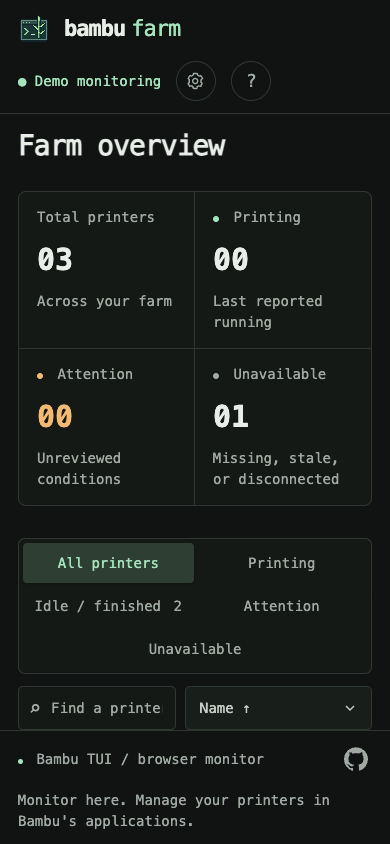
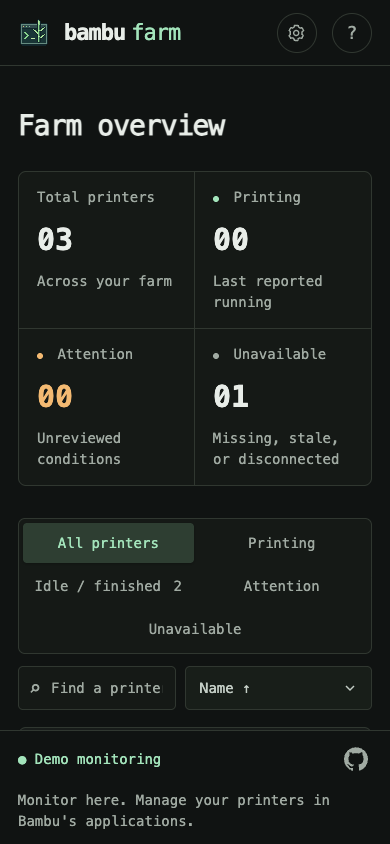
Move browser monitoring status to the footer

diff --git a/internal/webserver/assets/index.html b/internal/webserver/assets/index.html
@@ -15,9 +15,7 @@
         ><small>MONITORING</small></a
       >
       <div class="header-right">
-        <span class="live" id="feed-state" role="status">Connecting…</span
-        ><span class="readonly">▣ &nbsp; Monitor</span
-        ><button
+        <button
           id="settings"
           class="icon-button"
           aria-label="Dashboard settings"
@@ -118,9 +116,7 @@
       </main>
     </div>
     <footer>
-      <span
-        ><i class="tiny-dot"></i> Bambu TUI
-        <span class="muted">/ browser monitor</span></span
+      <span class="live" id="feed-state" role="status">Connecting…</span
       ><span
         >Monitor here. Manage your printers in Bambu's applications.</span
       ><a

diff --git a/internal/webserver/assets/style.css b/internal/webserver/assets/style.css
@@ -157,14 +157,6 @@ i {
   letter-spacing: 1.5px;
   color: var(--muted);
 }
-.tiny-dot {
-  display: inline-block;
-  background: var(--green);
-  width: 5px;
-  height: 5px;
-  border-radius: 50%;
-  margin-right: 5px;
-}
 main {
   min-width: 0;
   padding: 38px 38px 0;
@@ -798,9 +790,6 @@ dialog p {
     font-size: 1.375rem;
   }
   .brand small {
-    display: none;
-  }
-  .readonly {
     display: none;
   }
   .header-right {

diff --git a/docs/user/usage.md b/docs/user/usage.md
@@ -60,7 +60,7 @@ See [Config controls](alerts.md#change-notifications-in-the-tui) for all nine al
 
 ### Local web dashboard
 
-The browser status bar stays at the bottom of the window, separated by a border. Scroll the farm workspace above it to reach all printer cards and the result count; the branding, monitoring reminder, and GitHub repository link remain visible. The bar wraps to accommodate narrow windows and larger browser text. When a short window cannot fit the header, workspace, and wrapped bar together, the page also scrolls to keep the farm and footer accessible.
+The browser status bar stays at the bottom of the window, separated by a border. Scroll the farm workspace above it to reach all printer cards and the result count; the connection/demo status, monitoring reminder, and GitHub repository link remain visible. The bar wraps to accommodate narrow windows and larger browser text. When a short window cannot fit the header, workspace, and wrapped bar together, the page also scrolls to keep the farm and footer accessible.
 
 Press `,`, then use `Tab` / `Shift+Tab` to select **Web Server**. Select **Enable web server** and use `Enter`, Space, or `←` / `→` to toggle it. It is off by default. The default port is **8080**; a successful start shows `http://127.0.0.1:8080` (or your configured port). Open that exact URL on the same computer.
 
@@ -82,7 +82,7 @@ The dashboard shows the whole-farm summary, searchable/filterable printer cards,
 
 Use the single printer toolbar to choose **All printers**, **Printing**, **Idle / finished**, **Attention**, or **Unavailable**. Summary totals describe the whole farm and are not filter buttons. **Idle / finished** includes only currently available online printers explicitly reporting `IDLE` or `FINISH`, with a count before search is applied. Search narrows the selected filter; sorting applies within it. Missing/stale telemetry, offline/cloud-disconnected devices, and unknown/active/paused/failed states are excluded from this view. A delayed or disconnected browser feed also removes these current-availability results until recovery. Existing Printing totals and filters still describe the last reported state, independently of availability; the groups can overlap Attention.
 
-Idle and Finished stay distinct on the cards. Neither confirms that a build plate is clear, a fault is resolved, or a printer is ready for another job. Cards with unavailable telemetry show one warning that their readings are last-known and missing values remain unknown. Material text wraps; full job names and telemetry remain available through inspection. Polling preserves focus and cards that remain visible; if the focused card leaves the active filter, focus returns to that filter button. Connection/demo mode stays in the header and the repository link in the footer, without a duplicate sidebar.
+Idle and Finished stay distinct on the cards. Neither confirms that a build plate is clear, a fault is resolved, or a printer is ready for another job. Cards with unavailable telemetry show one warning that their readings are last-known and missing values remain unknown. Material text wraps; full job names and telemetry remain available through inspection. Polling preserves focus and cards that remain visible; if the focused card leaves the active filter, focus returns to that filter button. Connection/demo mode stays on the left of the footer and the repository link on the right, without a duplicate sidebar.
 
 Open **Settings** using the gear button beside Help in the dashboard header. Its **Browser notifications** section offers explicit Enable/Test/Disable controls and capability, permission, and submission status. Close with the close button or `Esc`; closing Settings leaves automatic notifications running. Browser permission and automatic opt-in are separate from native macOS delivery. New actionable incidents and confirmed print completions can notify while an enabled page runs; tabs/browsers share durable claims and reloads establish a baseline without backlog. See [browser notification policy, settings, and lifecycle limits](alerts.md#browser-system-notifications). Closing a notification never hides a notice.
 

diff --git a/docs/development/validation.md b/docs/development/validation.md
@@ -7,13 +7,13 @@ This is the ongoing record of observed hardware behavior and remaining operation
 
 ## Browser dashboard cleanup (#134)
 
-Checked on 2026-10-28 (PDT), macOS 27.0.1 (26A434) arm64 with Go 1.27.3 and headless Chrome 156.0.8078.73. The sidebar and duplicate filter paths are removed; summary totals are static and the toolbar adds a current online Idle / finished view. Last-reported Printing totals remain unchanged. Connection/demo mode stays in the header and the GitHub link in the footer. Normal monitoring artwork stamps and repeated heading counts are removed; unavailable readings have one explicit warning and material names wrap.
+Checked on 2026-10-28 (PDT), macOS 27.0.1 (26A434) arm64 with Go 1.27.3 and headless Chrome 156.0.8078.73. The sidebar and duplicate filter paths are removed; summary totals are static and the toolbar adds a current online Idle / finished view. Last-reported Printing totals remain unchanged. Connection/demo mode stays on the left of the footer and the GitHub link on the right. Normal monitoring artwork stamps and repeated heading counts are removed; unavailable readings have one explicit warning and material names wrap.
 
 Synthetic session regressions cover reported IDLE/FINISH versus running/preparing/slicing/paused/failed/unknown states, 100% progress and zero estimates that cannot establish idle, the exact ten-minute idle freshness boundary, stale/missing reports, offline/cloud loss, and independent attention conditions. Wire tests verify that the shared eligibility reaches the browser. All 31 dependency-free browser interaction tests passed, including feed errors/delay, eligibility/membership changes, search/sort, and last-known/attention text.
 
 All 30 real-browser layout combinations passed: empty/single/24-printer farms at 1920 × 1080, 1280 × 800, 390 × 844, 320 × 568, 568 × 320, and 1280 × 240 with default text, plus 780 × 844, 390 × 844, 320 × 568, and 568 × 320 at 200% root text. Each checks the new filter/count, static summary, pressed state, empty matches, modal focus, bounds, short-height fallback, and resize recovery. The 1280 × 800 large-farm case additionally verifies idle-filter image/focus continuity, focus fallback when membership changes, browser/cloud outage recovery, search, and sorting. Screenshots were inspected for desktop, narrow, and enlarged-text states, including readable unknown material and independent attention/last-known warnings. Browser code uses synthetic snapshots and no account data.
 
-The sort selector retains its native select interaction with an inline decorative chevron centered vertically and inset from the right edge, reserving label space. The 30 layout combinations assert icon bounds, centering, text padding, and non-interception of pointer events. All 31 browser interaction tests, the native build, and documentation checks passed again after this styling refinement; desktop/mobile screenshots were refreshed.
+The monitoring connection/demo status now occupies the footer’s left side, replacing duplicate footer branding; the redundant header Monitor label is removed, leaving Settings and Help beside the main brand. Layout checks assert the status remains an accessible footer status region. The sort selector retains its native select interaction with an inline decorative chevron centered vertically and inset from the right edge, reserving label space. The 30 layout combinations assert icon bounds, centering, text padding, and non-interception of pointer events. All 31 browser interaction tests, the native build, and documentation checks passed again after this styling refinement; desktop/mobile screenshots were refreshed.
 
 Before/after layouts use the same synthetic three-printer fixture: [desktop before](../../assets/screenshots/browser-before-134.png), [desktop after](../../assets/screenshots/browser.png), [mobile before](../../assets/screenshots/browser-mobile-before-134.png), and [mobile after](../../assets/screenshots/browser-mobile.png). These capture actual browser viewports at 1280 × 1200 and 390 × 844; content beyond the workspace remains scrollable. The README dashboard image is refreshed from this fixture.
 

diff --git a/docs/development/ui-direction.md b/docs/development/ui-direction.md
@@ -67,9 +67,9 @@ Render at most once per second during monitoring. Keep at most three recent diag
 
 ## Browser dashboard readability
 
-Keep the browser status bar in its own row at the viewport bottom, with a full-width top border matching the header divider. Let the farm workspace scroll above it and reserve the bar's actual reflowed height so cards and result metadata remain reachable. Preserve branding, the read-only monitoring message, and an accessible GitHub repository icon link at narrow widths and enlarged text sizes; dialogs retain their normal modal focus and scrolling. Reserve a usable workspace height even when the header and wrapped footer exceed the viewport budget; let the whole page scroll in short windows so filters, cards, and the footer remain reachable by keyboard and pointer.
+Keep the browser status bar in its own row at the viewport bottom, with a full-width top border matching the header divider. Let the farm workspace scroll above it and reserve the bar's actual reflowed height so cards and result metadata remain reachable. Preserve connection/demo status, the read-only monitoring message, and an accessible GitHub repository icon link at narrow widths and enlarged text sizes; dialogs retain their normal modal focus and scrolling. Reserve a usable workspace height even when the header and wrapped footer exceed the viewport budget; let the whole page scroll in short windows so filters, cards, and the footer remain reachable by keyboard and pointer.
 
-Use one primary browser filter toolbar (All printers, Printing, Idle / finished, Attention, Unavailable). Whole-farm summary totals are static; keep connection/demo status in the header and the repository link in the footer. Do not reintroduce a parallel sidebar or decorative headings/counts that duplicate these controls. The Idle / finished view uses the session's current-telemetry classification, requires an available browser feed, and excludes unknown/offline/stale readings. Its count is the eligible farm subset before search, distinct from last-reported Printing totals. Retain individual Idle/Finished labels and overlapping attention; never claim physical readiness. Keep a useful result count, snapshot metadata, and active filter pressed state. If a focused card leaves the view, focus returns to the active filter.
+Use one primary browser filter toolbar (All printers, Printing, Idle / finished, Attention, Unavailable). Whole-farm summary totals are static; keep connection/demo status on the left of the footer and the repository link on the right. Do not reintroduce a parallel sidebar or decorative headings/counts that duplicate these controls. The Idle / finished view uses the session's current-telemetry classification, requires an available browser feed, and excludes unknown/offline/stale readings. Its count is the eligible farm subset before search, distinct from last-reported Printing totals. Retain individual Idle/Finished labels and overlapping attention; never claim physical readiness. Keep a useful result count, snapshot metadata, and active filter pressed state. If a focused card leaves the view, focus returns to the active filter.
 
 Scope unavailable-card readings with one explicit last-known/current-state-unconfirmed warning rather than repeating a prefix on each metric. Preserve unknown values, independently last-known ETA labels, and attention warnings even when telemetry is also unavailable. Wrap material labels and keep full job/telemetry details accessible. Artwork is decorative and needs no normal monitoring stamp.
 

diff --git a/docs/CHANGELOG.md b/docs/CHANGELOG.md
@@ -2,7 +2,7 @@
 
 ## Unreleased
 
-- Simplify the browser dashboard with one filter toolbar, static whole-farm summary totals, and more room for printer cards. Remove the duplicate sidebar, repeated counts, decorative headings, and normal monitoring stamps (#134).
+- Simplify the browser dashboard with one filter toolbar, static whole-farm summary totals, and more room for printer cards. Remove the duplicate sidebar, repeated counts, decorative headings, and normal monitoring stamps; move connection/demo status to the footer’s left side (#134).
 - Add an online **Idle / finished** filter and count using shared current-telemetry interpretation. Exclude unavailable or unknown printers and suppress current availability during browser-feed outages; idle/finished never establishes physical readiness.
 - Keep offline card readings explicitly last-known without repeating the prefix on every metric, wrap material labels, and return focus to the active filter when a live update removes the focused printer.
 
